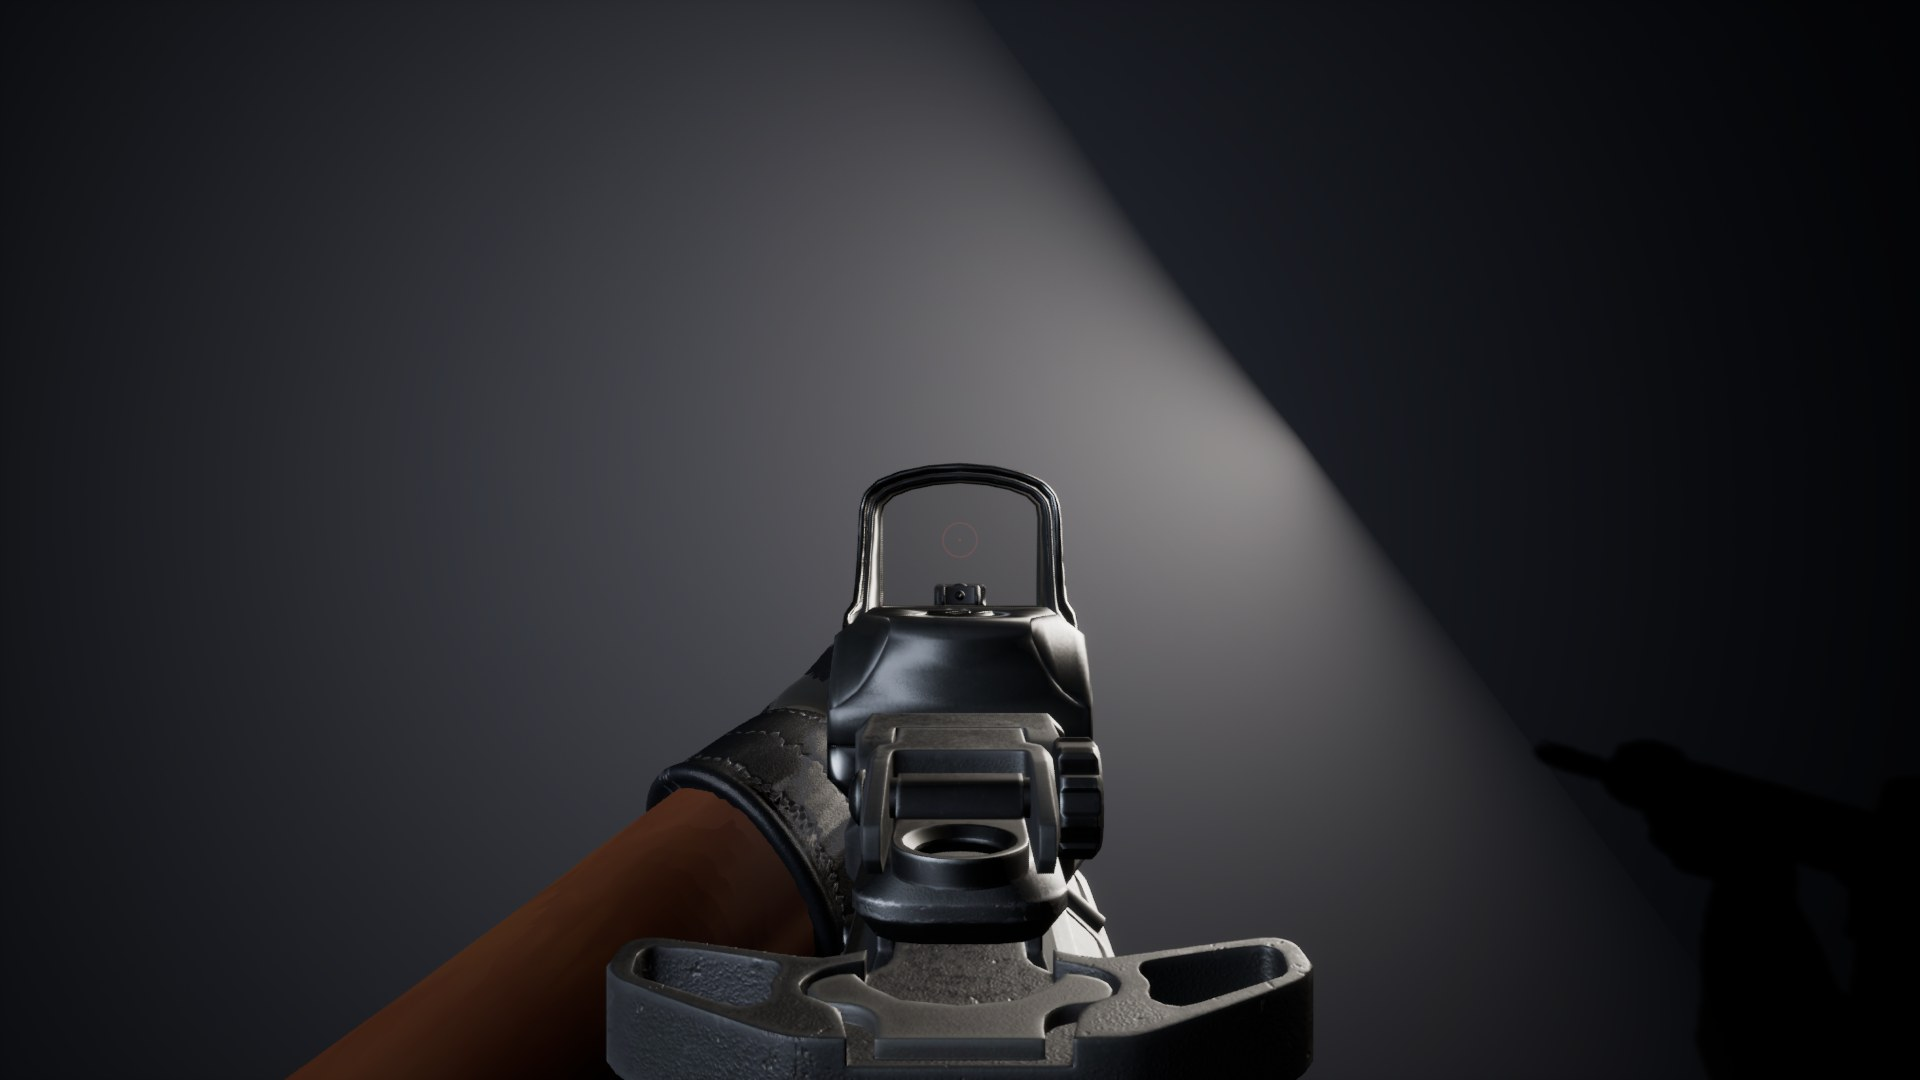
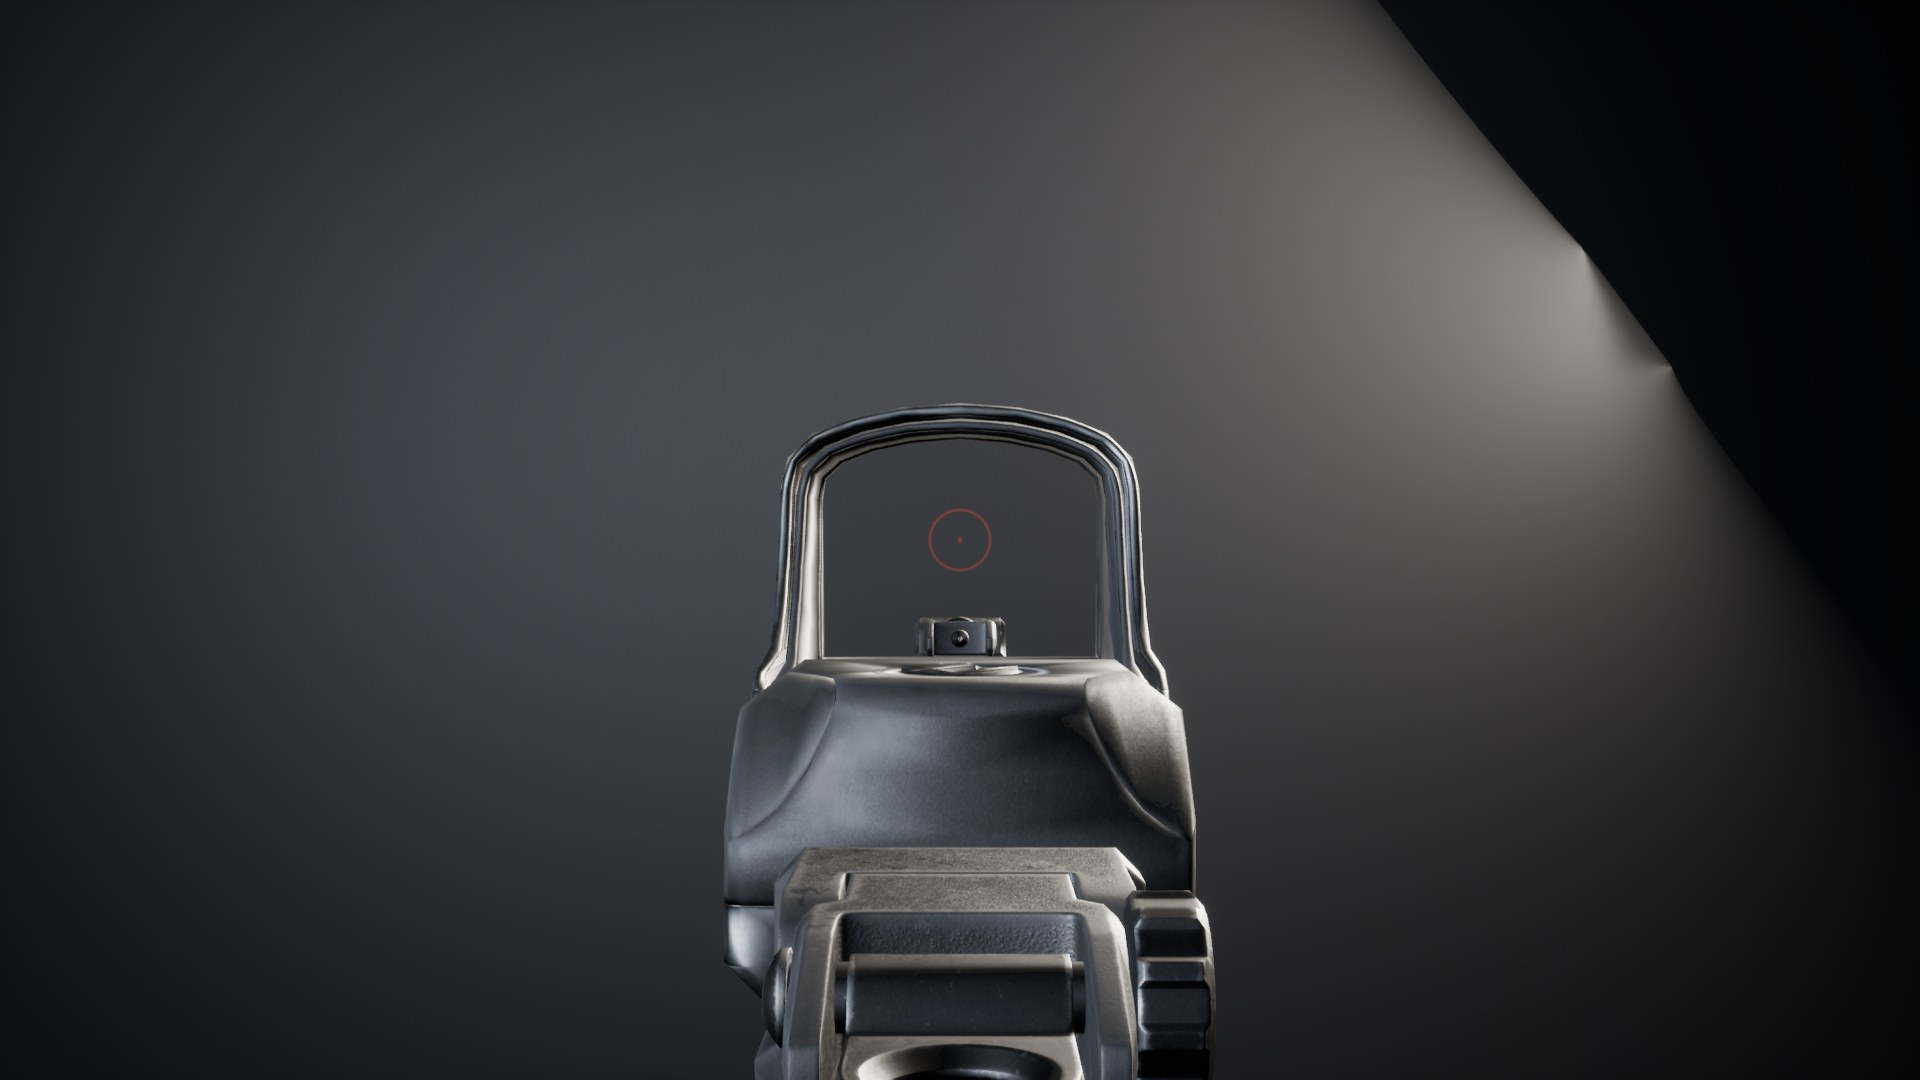
Animation fix pass: ANIMATION.md 8-9 (attachment roughness, gun-space socket rotations and Eject's frame, one Underbarrel, per-project facts and the re-run import test, hand-offs 8.7, aimed arms FOV blend, the reload magazine rule 9.1); first-person proofs retaken (irons, scope), new lengths/kit and
Claude-Session: https://claude.ai/code/session_01HkcHdD7NbyxwnFfuuSpZY4

diff --git a/docs/unreal/ANIMATION.md b/docs/unreal/ANIMATION.md
@@ -261,7 +261,7 @@ stock.** LOADOUT.md's "stock open or folded" reading of `_Folded` is wrong: `_Fo
 Consequences, written into the data: `guns.json variants.open` is the Combined rifle and `variants.open.opticMesh` its
 `_Folded` twin, the base mesh whenever an optic is fitted (the standing irons top out at 10.27 cm, above the scope's
 10.06 cm sight axis, and would block it; folded they end at 8.11 cm); `variants.folded` (stock) and `stock_folded`
-are **missing** (new art), so the stock slot is not offered (`FMIReadiness::OfferedParts` needs two variants).
+are **missing** (new art), so the stock slot is not offered (`FMIReadiness::OfferedParts` needs two variants). The game's base-mesh choice does not read `opticMesh` yet (8.7).
 
 ### 8.2 Import, textures, materials
 
@@ -281,9 +281,16 @@ are **missing** (new art), so the stock slot is not offered (`FMIReadiness::Offe
 - `Materials/M_TFA_AR_Surface` (BaseColor, Normal, ORM parameters; `RoughnessScale`) and one instance per pack slot
   name (`MI_TFA_AR_01`..`04`, `MI_TFA_AR_ATT_01`..`03`), assigned by slot name; `M_TFA_AR_Glass` (translucent, surface
   per-pixel lighting, smoked 0.22 opacity) on the scope window, `MI_TFA_AR_MagPolymer` (0.32) on the clear magazine;
-  `M_TFA_AR_Reticle` on the scope's reticle plane (8.4). The lit close-up of the receiver and the side views
-  (`packguns-kit.jpg`, `packguns-lengths.jpg`) were looked at: engraving and knurling read raised and recessed the
-  right way round under a raking light, metal and polymer separate in roughness.
+  `M_TFA_AR_Reticle` on the scope's reticle plane (8.4). The lit close-up of the receiver and the studio side views
+  were looked at (on the box and under `art/out/`, never committed: they are pictures of the pack's meshes alone):
+  engraving and knurling read raised and recessed the right way round under a raking light, metal and polymer
+  separate in roughness;
+- **attachment roughness** (`ue_import_guns.ROUGHNESS`): the attachment sets are glossier than the receiver's (ORM
+  green medians, 4K maps reduced 8x: `Attachments_01` 0.43 (scope, silencer), `_02` 0.47 (laser, vertical grip), `_03`
+  0.47 (angled grip), against 0.52 to 0.56 on `01` to `03`, most attachment texels metallic), so the silencer and laser
+  read as glossy black plastic. `RoughnessScale` 1.4 / 1.25 / 1.2 on `MI_TFA_AR_ATT_01` / `_02` / `_03` puts their
+  medians at 0.56 to 0.60, the receiver's matte anodised range; the receiver instances stay at 1.0. Checked on the
+  silencer and laser close-up (box only): matte, no white hot spots.
 
 ### 8.3 Sockets, from measured geometry
 
@@ -291,18 +298,21 @@ are **missing** (new art), so the stock slot is not offered (`FMIReadiness::Offe
 `tools/box/anim/pack_measure.json`, numbers only); the socket pass `ue_import_guns.sockets()` turns the digest into
 sockets on both meshes of every length and on the parts, and runs at the end of every import. The pack author's own
 attachment frames (the `SOCKET_*` empties of the rig `.blend`, read by `bl_meshes.py`) say where each part's origin
-goes; every one was checked against the surface it must sit on. Gun space, cm, identity rotation (+Y is forward on
-every socket):
+goes; every one was checked against the surface it must sit on. The digest it reads is the one the import just
+measured (`$MI_FACTS/pack_measure.json`, else `<project>/Saved/AnimPack/facts`, else the committed copy; the file
+used is written to `Saved/AnimPack/sockets.json` as `_measure`). Gun space, cm. **Rotation: identity in gun space
+(+Y forward, +X left, +Z up) on every socket except `Eject`**, whatever the bone's own rotation (the pass writes the
+socket relative to its bone so that this holds; checked on all six rifles: 11 identity, positions exact):
 
 | Socket | Bone | Short | Default | Extended | How it was placed |
 |---|---|---|---|---|---|
 | `Optic` | `Scope` | (0, 7.936, 6.745) | same | same | the pack's own Scope bone on the receiver rail; rail tooth tops measured at z 7.09, the scope's base clamps from 6.32 to 7.26 around them |
 | `MuzzleMount` | `Handguard` | (0, 44.147, 3.54) | (0, 49.655, 3.54) | (0, 58.221, 3.54) | on the bore axis (centre of the muzzle ring, radius 1.018) at the barrel shoulder 5.75 cm behind the muzzle: the radius profile has the 0.842 cm thread relief from 5.0 to 5.75 cm, identical on all three barrels. The author's Short / Extended frames sit there (5.8); his Default frame (48.0) is 1.6 cm further back, so the measurement wins |
 | `Muzzle` | `Handguard` | (0, 49.897, 3.54) | (0, 55.405, 3.54) | (0, 63.971, 3.54) | muzzle face, bore axis |
-| `Underbarrel` | `Handguard` | (0, 29.689, 0.71) | same | same | the author's grip frame; the bottom rail's underside measured at z 0.976 from y 20 to 34 on every length, the grips' clamps wrap it |
+| `Underbarrel` | `Handguard` | (0, 29.689, 0.71) | same | same | the author's grip frame, **the same on all three lengths** in the rig; the bottom rail's underside measured at z 0.976 from y 20 to 34 on every length, the grips' clamps wrap it. Kept on purpose (LOADOUT.md 6.2 expects it to differ per length): the pack's support hand is the same on every length (`Palm_L` y 28.4), and in `Idle_Pose_Grip_Vertical` its finger roots (`middle_01_l`) are 4.2 cm from the grip's `SupportHand` (wrist 8.5 cm): the fist closes round the grip at this one place (`packguns-fp-grip.jpg`). A grip further forward on the STRETCH would leave the pack's grip poses holding air unless a per-length hand offset (IK) moved the hand with it; for the design owner to accept in 6.2 (8.7) |
 | `Laser` | `Handguard` | (-1.908, 33.874, 3.602) | (-1.908, 38.737, 3.602) | (-1.886, 47.293, 3.602) | the author's laser frame on the right side rail (outer face measured at x -1.867 along the whole rail) |
 | `MagHinge` | `Magazine` | (0.007, 12.265, -7.021) | same | same | the Magazine bone (the magazine part's own origin; the well opening measured at y 7.1..15.7, z -5.18); the pack's magazine drops straight, so the "hinge" is the seat |
-| `Eject` | `Eject_Casing` | (-0.277, 10.795, 3.875) | same | same | the pack's casing bone in the ejection port (right side) |
+| `Eject` | `Eject_Casing` | (-0.277, 10.795, 3.875) | same | same | the pack's casing bone in the ejection port (right side). **Keeps the bone's frame**: rotation (pitch 9.8, yaw 180, roll 180), so its +X, `GetSocketRotation(Eject).Vector()`, is (-0.985, 0, 0.170) in gun space: out of the port to the gun's right, 9.8° up. The bone never moves in the weapon clips (`A_TFA_FP_WEP_AR_Fire` sampled frame by frame), so this frame is the only ejection direction the pack gives: spawn casings along it (add a little rearward and random spread in the game) |
 | `SightRear` | `Sight_Rear` | (0, 0.844, 9.656) | same | same | centre of the rear aperture (the largest gap, 9.238..10.075, of the rear sight's centre-line vertices) |
 | `SightFront` | `Handguard` | (0, 34.489, 9.65) | (0, 39.021, 9.65) | (0, 48.591, 9.65) | front post tip; the sight line is parallel to the bore, 6.11 cm over it |
 | `RecoilPivot` | `Grip` | (0, -27.502, 4.019) | same | same | centre of the butt pad |
@@ -317,8 +327,10 @@ author's `LaserStart`, 1.5 mm in front of the emitter face).
 
 `tools/box/anim/mi_guns.py` assembles a rifle exactly as `UMIGunAssembly` should: the length's Combined mesh, its
 `_Folded` twin when the scope is fitted, every part snapped to its socket with an identity transform, the magazine on
-`MagHinge`. All parts were mounted on all three lengths and seen from the side, close up per mount and from the
-first-person eye (`packguns-kit.jpg`, `packguns-irons-folded.jpg`, `packguns-fp-scope.jpg`):
+`MagHinge`. (The game's own assembly does not switch to the `_Folded` twin yet: 8.7.) All parts were mounted on all
+three lengths and seen from the side and close up per mount (studio views, box and `art/out/` only) and in first
+person (`packguns-fp-lengths.jpg`: the three lengths and the full kit in the pack's inspect at 2.45 s;
+`packguns-fp-scope.jpg`: irons folded under the scope; `packguns-fp-grip.jpg`: the support hand on the vertical grip):
 
 - scope on the rail, base clamped round the teeth, irons folded under it, window and reticle on the eye line;
 - silencer coaxial by construction (its axis is x 0, z 0 in its frame, the socket on the bore axis: 0.0 cm offset),
@@ -341,19 +353,36 @@ so the NINE's laser row is dropped (`attachments.json compatibility.nine`) and a
 (512 x 192, right side, muzzle right, one scale and one receiver position for the three so the lengths read: alpha
 spans x 14..420 / 449 / 494) and pips `T_UI_Att_<id>` (128 x 128) for irons, scope, silencer, both grips, laser and both
 magazines; `ue_import_guns.import_icons()` brings them into `/Game/UI/Icons` (UI group, no mips). On the box only
-(`/project/ue/animpack/icons`): pictures of the pack's meshes are never committed. `stock_open` / `stock_folded` have
+(`<project>/Saved/AnimPack/icons`; the scratch project's older set in `/project/ue/animpack/icons`): pictures of the
+pack's meshes are never committed. `stock_open` / `stock_folded` have
 no pip (no stock art of their own).
 
 ### 8.6 One command
 
 `tools/box/anim/import-animpack.sh <Project.uproject> guns` (the editor of that project stopped; `all` = `pack` +
 `guns`): as root it runs `bl_meshes`, `bl_rig`, `bl_measure` and `bl_icons` with bpy (`/opt/blpy`, made by
-`/project/ue/bl/install.sh`; without it the committed `pack_measure.json` and any icons already rendered are used),
-then as `ue4` the commandlet `ue_import_guns.py --sync` with `-RenderOffscreen -AllowCommandletRendering` (materials
-cannot compile under `-NullRHI`). Tested on a fresh project copy (`/project/ue/animpack-test/GunTest.uproject`, the
-mannequin content only, `ONLY=__no_clip__ ... pack` first for the two skeletons): 32 jobs, 0 failed, materials
-compiled and assigned, 12 sockets on each rifle, 11 icons, 4 min 45 s including the Blender steps and the first
-shader compile.
+`/project/ue/bl/install.sh`) into **that project's** `Saved/AnimPack/facts` and `Saved/AnimPack/icons` (`FACTS=` and
+`MI_ICONS=` override them; without bpy the committed `pack_measure.json` and any icons already there are used), then
+as `ue4` the commandlet `ue_import_guns.py --sync` with `-RenderOffscreen -AllowCommandletRendering` (materials
+cannot compile under `-NullRHI`) and `MI_FACTS` / `MI_ICONS` set to those folders, so the socket pass reads the digest
+this run measured, never another project's. Re-tested on 2026-11-23 after the fix pass on a fresh project
+(`/project/ue/animpack-guntest/GunTest.uproject`: `Blank`'s config and the mannequin content only,
+`ONLY=__no_clip__ ... pack` first for the two skeletons, 21 s): `guns` 147 s including the four Blender steps, 32
+jobs, 0 failed, materials compiled and assigned, 12 sockets on each of the six rifles and the part sockets, read from
+the project's own `Saved/AnimPack/facts/pack_measure.json` (byte-identical to the committed digest), 11 icons. The test
+project was deleted afterwards (and the older `/project/ue/animpack-test`).
+
+### 8.7 Hand-offs (other owners' files)
+
+The fix pass changed only this page, `tools/box/anim/` and the two data files. These need their owners:
+
+| To | What | Why |
+|---|---|---|
+| Loadout / gameplay (`FMIReadiness::BaseMesh` in `Core/Data/MILoadoutData.cpp`, `UMIGunAssembly`) | When the gun's optic slot holds anything but `irons`, use `guns.json variants.<v>.opticMesh` as the base mesh (the `_Folded` twin: irons folded flat, top at 8.11 cm). Add a `MurderInc.Loadout` test: the STICK with `scope` resolves `SK_TFA_AR_Default_Combined_Folded` (skips without the pack, like `MountsExist`) | today the scope sits over standing irons in the game: the irons top out at 10.27 cm, above the scope's 10.06 cm sight axis, so the front sight shows in the window. `mi_guns.base_mesh` already does it |
+| Loadout / gameplay (`UMIWeaponComponent`) | the reload magazine rule of 9.1 (drop, stow, swap at the end) and casings along `Eject`'s +X (8.3) | the pack parks the old magazine in mid-air after the dropping reloads |
+| Gameplay (`UMIViewmodelRig` / the arms camera) | the arms FOV blend of section 9 (54° → 38° irons, 32° optic, by `Ads`) | the aimed sight picture was 11 % of the screen width |
+| Design owner (`LOADOUT.md`) | 6.2: add `opticMesh` (the base mesh under an optic) next to `variants.*.mesh`; accept one `Underbarrel` position on all three lengths (8.3) or ask for a per-length hand offset; sign off or revert the extra keys the first import pass wrote into the data (`variants.*.opticMesh`, `.notes`, `.packFile`, `presentation.socketOffsetsCm`, rewritten `art.notes`, `irons.presentation.folded`) and the new `compatibility.nine.dropped` record | the design names only `mesh`, `presentation.mesh` and the statuses |
+| Characters (`SK_RuleArms`) | the bare forearm: skin material with subsurface scattering, a detail normal, veins and hair, a neutral (not saturated orange) albedo; or a sleeve / cuff to the wrist | it takes 20 to 25 % of every hip and aimed frame and is the least realistic thing on screen |
 
 ## 9. The first-person camera recipe
 
@@ -376,23 +405,51 @@ shader compile.
 | Item | Value |
 |---|---|
 | Camera | the eye point `EYE_CS` = component (0, 0.66, 162.0): the head joint lowered 0.58 cm onto the sight line, looking along component +Y, no roll. As a head socket: bone `head`, location (-0.58, 0, 0) in the bone's frame (its X axis points up). The head never moves, so attaching the **arms to the camera** is the same thing: arms mesh relative to the camera **location (-0.66, 0, -162.0), rotation yaw -90** (component +Y onto camera forward) |
-| First-person (arms and gun) FOV | **54° vertical = 84.3° horizontal at 16:9** (the game's `player.fov.viewmodel`), with the camera's `bEnableFirstPersonFieldOfView`. Never below **48° vertical** (76.7° h): the magazine work leaves the bottom of the frame. 60° h, tried, shows only the rail and the rear sight; 90° h shows the most hand but makes the gun small |
+| First-person (arms and gun) FOV | **hip 54° vertical = 84.3° horizontal at 16:9** (the game's `player.fov.viewmodel`), with the camera's `bEnableFirstPersonFieldOfView`; **blended by `Ads`, linear in the vertical angle, to 38° (63.0° h) on the irons and 32° (54.0° h) with any optic** (`mi_guns.FP_FOV_V`, `fp_fov(ads, optic)`). At 84.3° h the aimed red-dot window was 11 % of the screen width; at 54.0° h it is about 18 %, and the iron sight picture grows by the same 1.6 times, the charging-handle wings pushed down to the frame's edge. Never below 48° vertical while not aimed (76.7° h): the magazine work leaves the bottom of the frame. The narrowing changes magnification only: the camera stays on the head, so nothing new is hidden or shown |
 | World FOV | unchanged: the rules' 74° vertical (106° h), 52° aimed, 30° with the scope (`adsFov`) |
 | Near clip | **1 cm** (`r.SetNearClipPlane 1` / Engine settings Near Clip Plane). The default 10 cm cuts the receiver (the charging handle is 8.9 cm from the eye when aimed) and the gloves: one cause of the old proof's fault |
 | First-person scale | the game's `presentation.json firstPerson.scale` with `bEnableFirstPersonScale`: keeps the gun out of walls without changing the picture |
 | Body | arms only: `SK_RuleArms` (the same skeleton). With a full mannequin on the FP clips, hide `neck_01` (the head sits on the camera) and `thigh_l` / `thigh_r` (`HideBoneByName`, `PBO_None`), and draw the full body as `WorldSpaceRepresentation` / owner-no-see for shadows |
-| Aim, irons | blend to `Aim_Pose` by `Ads`: `SightRear` lands on the camera axis (measured 0.001 cm off), eye relief 11.56 cm to the aperture, the front post centred in it (`packguns-fp-irons.jpg`) |
-| Aim, scope | base mesh switches to `_Folded` (irons down); the scope's `SightEye` axis is 0.40 cm above the iron line (10.056 against 9.656 over the gun origin), so the aimed pose adds **-0.40 cm along the gun's up axis × Ads** (generally: minus the sight point's offset from `SightRear` across the bore); eye 14.33 cm behind `SightEye` (a collimated sight: relief does not matter) (`packguns-fp-scope.jpg`) |
-| Sprint, reload, inspect | the clips as they are; the camera stays on the head (it never moves); camera kick and sway stay the rules' |
+| Aim, irons | blend to `Aim_Pose` by `Ads`: `SightRear` lands on the camera axis (measured 0.001 cm off), eye relief 11.56 cm to the aperture, the front post centred in it arms FOV 38° vertical (`packguns-fp-irons.jpg`) |
+| Aim, scope | base mesh switches to `_Folded` (irons down; not yet in the game's assembly, 8.7); the scope's `SightEye` axis is 0.40 cm above the iron line (10.056 against 9.656 over the gun origin), so the aimed pose adds **-0.40 cm along the gun's up axis × Ads** (generally: minus the sight point's offset from `SightRear` across the bore); eye 14.33 cm behind `SightEye` (a collimated sight: relief does not matter), arms FOV 32° vertical (`packguns-fp-scope.jpg`) |
+| Sprint, reload, inspect | the clips as they are; the camera stays on the head (it never moves); camera kick and sway stay the rules'; the magazines as in 9.1 |
+
+### 9.1 The magazines in the pack's reloads
+
+The rifle's two magazine bones (sampled every 1/15 s with `AnimPose` in the weapon clips, distances in gun space):
+`Magazine` carries the old magazine, `Magazine_Reserve` the fresh one. Outside the reloads `Magazine_Reserve` rests in
+the chest pouch, 36 cm from the seat; in first person there is no pouch, so a magazine resting there hangs in the
+air. The clips end with the two bones swapped (`Magazine_Reserve` on the seat, `Magazine` parked) and the next clip
+puts them back, so the weapon component must:
+
+| Clip (`A_TFA_FP_WEP_AR_*`) | Fresh magazine in hand | Old one leaves the seat | Then | Fresh one seated | Old one at the end |
+|---|---|---|---|---|---|
+| `Reload` (tactical, retention, 3.67 s) | 0.27 | 0.87, in the same hand as the fresh one | carried to the pouch, let go at 2.07 | 1.40 | in the pouch, 36 cm from the seat |
+| `Reload_Empty_Retain` (4.0 s) | 0.27 | 0.87, in hand | let go in the pouch at 2.13 | 1.40 | in the pouch, 36 cm |
+| `Reload_Empty` (3.67 s) | 0.27 | **0.33, dropped**: falls free at 2.4 m/s | stops in mid-air at 1.07 | 1.33 | **hanging 70 cm from the seat** |
+| `Reload_Quick` (2.63 s) | 0.27 | **0.40, flung** (7 m/s at 0.53) | stops at 1.13 | 1.47 | **hanging 70 cm from the seat** |
+
+The rule (`mi_guns.RELOAD_MAGS`, `mag_shown()`; the game's `UMIWeaponComponent` to implement it, 8.7):
+
+1. Hide the mesh on `Magazine_Reserve` except from "in hand" to the end of a reload clip.
+2. **Dropped** (`Reload_Empty`, `Reload_Quick`): at "leaves the seat" hide the mesh on `Magazine` and spawn a physics
+   `SM_TFA_AR_Magazine_Empty` (`_Full` for the quick reload, the clear twins with the clear magazine) at the
+   `Magazine` bone's world transform with the bone's velocity; let it fall and despawn after a few seconds.
+3. **Retained** (`Reload`, `Reload_Empty_Retain`): hide the mesh on `Magazine` from "let go" (it is in the pouch).
+4. At the end of every reload (or when it is cancelled): show the mesh on `Magazine` (back on `MagHinge` in the idle)
+   with the fresh magazine's rounds (`RoundsShown`), hide `Magazine_Reserve`'s.
+
+Third person, with a body and its pouch, keeps rule 2 and 4 and may leave the retained magazine visible in the pouch.
 
 **Why the old proof was wrong:** `mi_adapt.EYE_CS` was (-5.06, 0.66, 157.55), the sight-bone line of the hip-ready
 `Idle_Loop_Aimed` (bone points 2.9 cm under the real aperture line), so the eye sat 5 cm right and 4.5 cm low, at
 the forearm, with the default 10 cm near plane. `EYE_CS` is now the recipe's eye and the CHOPPER's aimed correction
 is computed on `Aim_Pose` (`mi_adapt.AIM_CLIP`).
 
-**Proof**, the pack's own rifle (Default length, no IK, `SK_RuleArms`), camera at the recipe's eye, 84.3° h:
-`packguns-fp-hip.jpg` (`Idle_Loop_Standing` 0.5 s), `-fp-irons.jpg` (`Aim_Pose`), `-fp-scope.jpg` (`Aim_Pose` + scope,
-eye on `SightEye`), `-fp-reload-tactical.jpg` (`Reload` 1.2 s, the new magazine coming up while the old one rides in
+**Proof**, the pack's own rifle (Default length, no IK, `SK_RuleArms`), camera at the recipe's eye, 84.3° h unless
+said: `packguns-fp-hip.jpg` (`Idle_Loop_Standing` 0.5 s), `-fp-irons.jpg` (`Aim_Pose`, 63.0° h: rear aperture
+centred, the front post inside it), `-fp-scope.jpg` (`Aim_Pose` + scope, eye on `SightEye`, 54.0° h: dot and ring
+centred, irons folded below the window), `-fp-reload-tactical.jpg` (`Reload` 1.2 s, the new magazine coming up while the old one rides in
 the same hand), `-fp-reload-empty-bolt.jpg` (`Reload_Empty` 2.13 s: bolt still back, released between 2.1 and 2.2 s
 in `A_TFA_FP_WEP_AR_Reload_Empty`), `-fp-inspect.jpg` (`Inspect` 2.6 s), `-fp-sprint.jpg` (`Sprint_F_Loop` 0.14 s).
 Each weapon clip plays at the same time on the rifle; the reserve magazine hangs from `Magazine_Reserve`.
